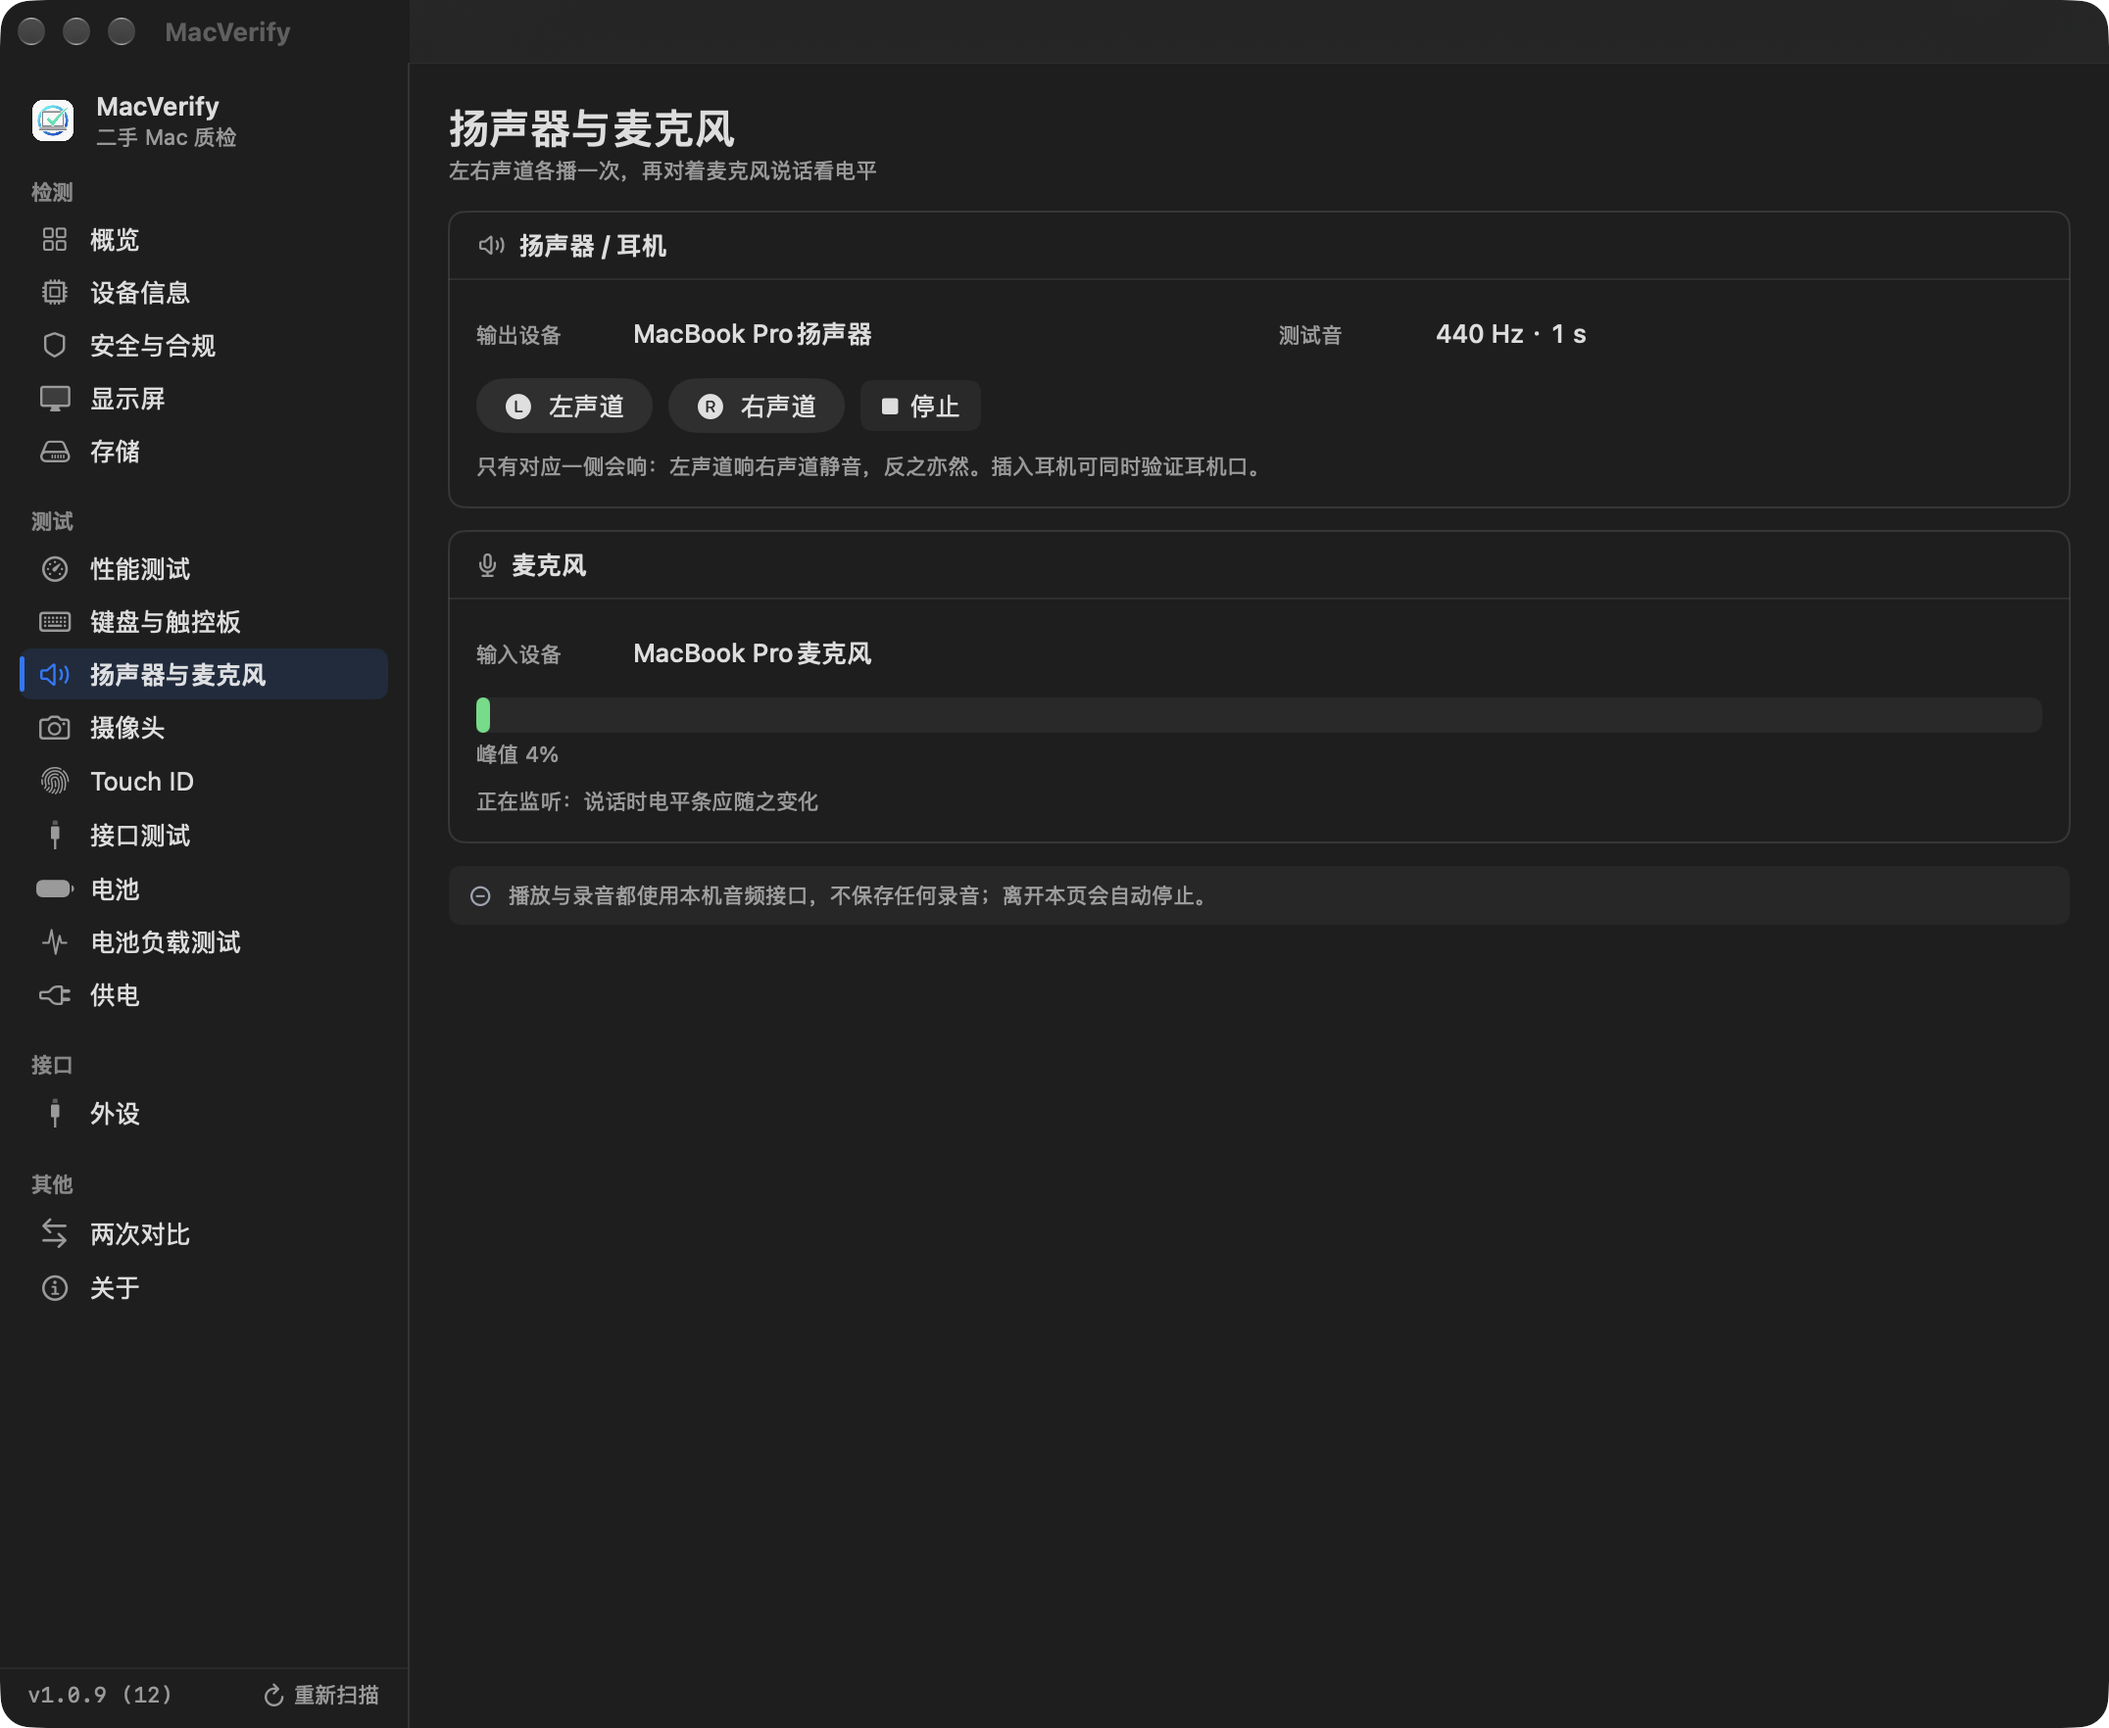
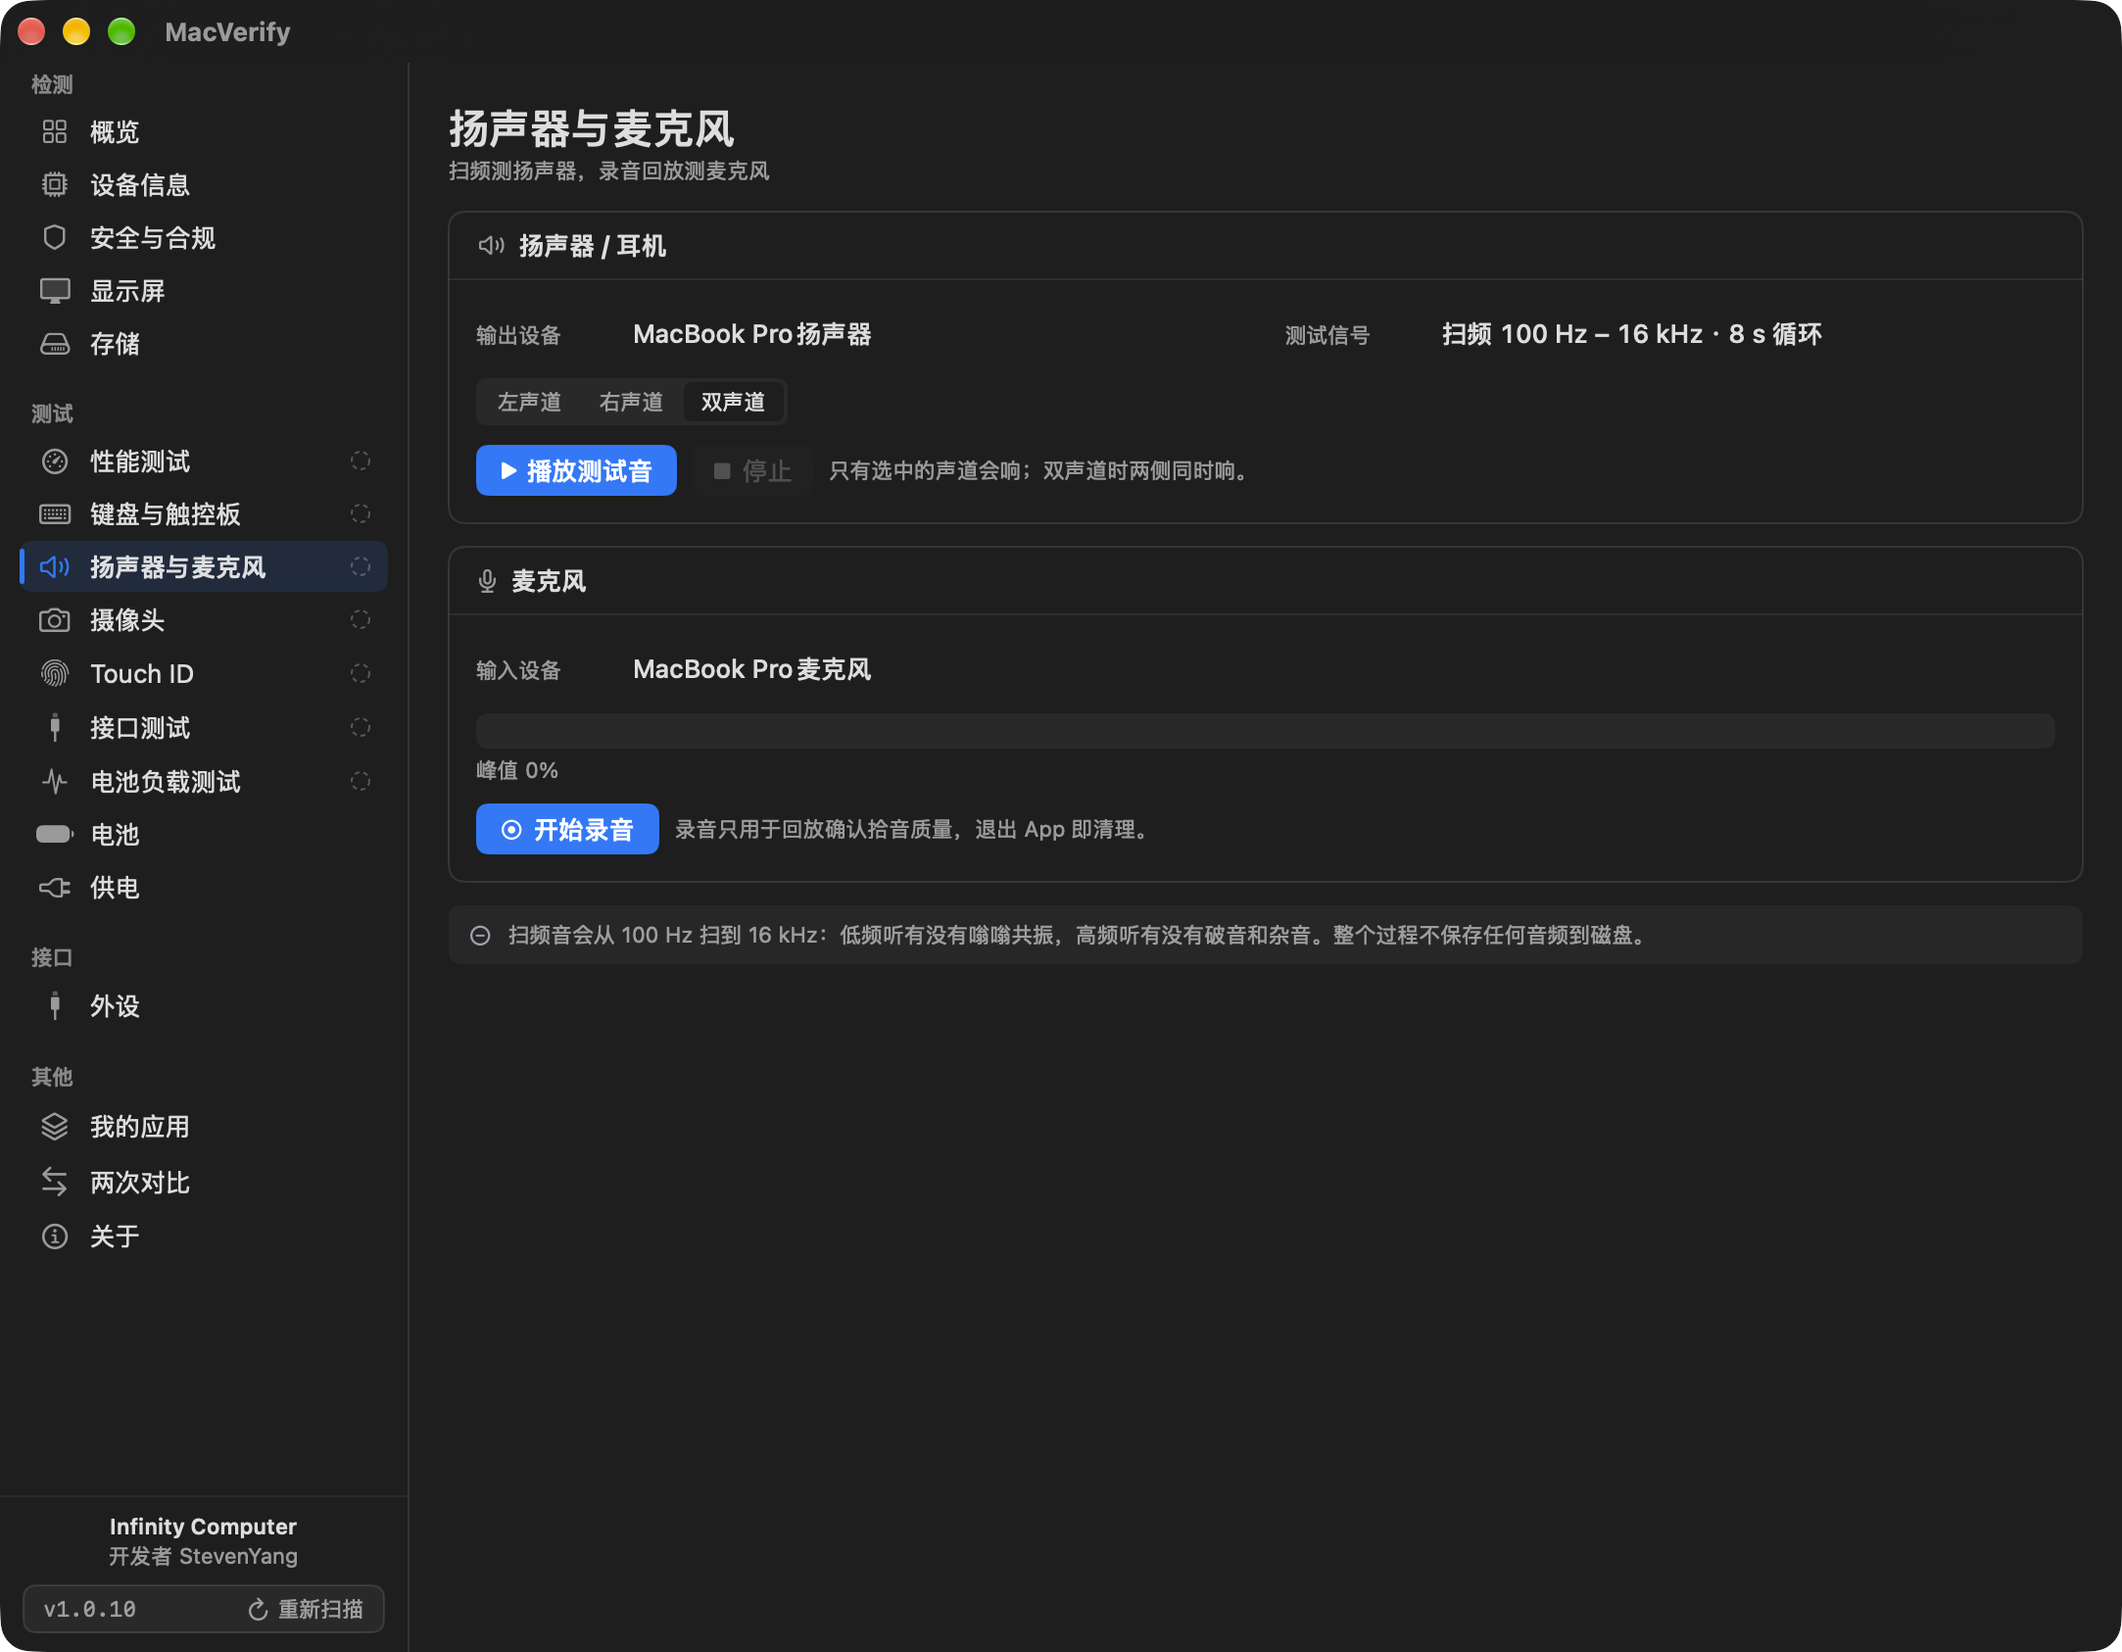
Tidy layout defects found in a page-by-page pass
Reviewed all 18 pages at a fixed 1040x860 viewport and fixed the places
where the layout, not the data, was wrong:

1. Power: the adapter card was stretched to match the charging card, which
   spread its three lines of text down the whole card. Content is now pinned
   to the top, so the extra height sits at the bottom instead of between
   the value and the adapter name.

2. Ports: "Start listening" and "Refresh" floated between two cards with no
   container, unlike every other action on the page. Refresh moved into the
   connected-devices header, and start/stop/clear plus the capture counter
   moved into the log header.

3. Audio: the Stop button sat immediately after the channel segmented
   control and read as a fourth segment. Play and Stop now share one row,
   and Stop is disabled until something is playing.

4. Battery Load Test: the status word ("Ready") was orphaned under the
   duration picker. It is now a badge in the card header, so the running
   state is visible without reading the body.

Also refreshed the audio and ports screenshots in docs.

Verified: 95 unit tests, baseline and localization linters pass; the four
changed pages were re-rendered and the audio/ports pages checked live in the
running app. No version bump, no release.

diff --git a/MacVerify/Views/PowerView.swift b/MacVerify/Views/PowerView.swift
@@ -50,26 +50,31 @@ struct PowerView: View {
                 }
 
                 Card(title: T("适配器", "Adapter"), icon: "powerplug") {
-                    if let watts = battery.adapterWatts {
-                        HStack(alignment: .firstTextBaseline, spacing: 4) {
-                            Text("\(watts)")
-                                .font(Typo.metric)
-                            Text("W").font(Typo.caption).foregroundColor(.secondary)
+                    // 与左边卡片等高时，内容贴顶——否则三行字会被拉开成一大片空隙
+                    VStack(alignment: .leading, spacing: Space.xs) {
+                        if let watts = battery.adapterWatts {
+                            HStack(alignment: .firstTextBaseline, spacing: 4) {
+                                Text("\(watts)")
+                                    .font(Typo.metric)
+                                Text("W").font(Typo.caption).foregroundColor(.secondary)
+                            }
+                            Text(battery.adapterName ?? T("USB-C 电源适配器", "USB-C power adapter"))
+                                .font(Typo.caption)
+                                .foregroundColor(.secondary)
+                            if let manufacturer = battery.adapterManufacturer {
+                                Text(manufacturer).font(Typo.caption).foregroundColor(.secondary)
+                            }
+                        } else {
+                            Text(T("未检测到适配器", "No adapter detected"))
+                                .font(Typo.body)
+                                .foregroundColor(.secondary)
+                            Text(T("使用电池供电时无法读取适配器信息。", "Adapter details are unavailable while running on battery."))
+                                .font(Typo.caption)
+                                .foregroundColor(.secondary)
                         }
-                        Text(battery.adapterName ?? T("USB-C 电源适配器", "USB-C power adapter"))
-                            .font(Typo.caption)
-                            .foregroundColor(.secondary)
-                        if let manufacturer = battery.adapterManufacturer {
-                            Text(manufacturer).font(Typo.caption).foregroundColor(.secondary)
-                        }
-                    } else {
-                        Text(T("未检测到适配器", "No adapter detected"))
-                            .font(Typo.body)
-                            .foregroundColor(.secondary)
-                        Text(T("使用电池供电时无法读取适配器信息。", "Adapter details are unavailable while running on battery."))
-                            .font(Typo.caption)
-                            .foregroundColor(.secondary)
+                        Spacer(minLength: 0)
                     }
+                    .frame(maxHeight: .infinity, alignment: .top)
                 }
                 .frame(width: 300)
             }

diff --git a/MacVerify/Views/PortTestView.swift b/MacVerify/Views/PortTestView.swift
@@ -215,7 +215,12 @@ struct PortTestView: View {
                 )
             )
 
-            Card(title: T("当前连接的设备", "Connected now"), icon: "cable.connector") {
+            Card(title: T("当前连接的设备", "Connected now"), icon: "cable.connector",
+                 trailing: AnyView(
+                    SecondaryButton(title: T("刷新", "Refresh"), icon: "arrow.clockwise") {
+                        monitor.refreshDevices()
+                    }
+                 )) {
                 VStack(alignment: .leading, spacing: 0) {
                     if monitor.devices.isEmpty {
                         Text(T("当前没有检测到 USB / 雷雳 / 外置存储设备。",
@@ -239,21 +244,22 @@ struct PortTestView: View {
                 }
             }
 
-            HStack(spacing: Space.sm) {
-                if monitor.isMonitoring {
-                    SecondaryButton(title: T("停止监听", "Stop"), icon: "stop.fill") { monitor.stop() }
-                    SecondaryButton(title: T("清除记录", "Clear log"), icon: "trash") { monitor.clearEvents() }
-                } else {
-                    PrimaryButton(title: T("开始监听", "Start listening"), icon: "play.fill") { monitor.start() }
-                    SecondaryButton(title: T("刷新", "Refresh"), icon: "arrow.clockwise") { monitor.refreshDevices() }
-                }
-                Spacer(minLength: 0)
-                Text(T("已捕获接入 \(monitor.insertCount) 次", "\(monitor.insertCount) connections captured"))
-                    .font(Typo.caption)
-                    .foregroundColor(.secondary)
-            }
-
-            Card(title: T("插拔记录", "Plug / unplug log"), icon: "list.bullet.rectangle") {
+            Card(title: T("插拔记录", "Plug / unplug log"), icon: "list.bullet.rectangle",
+                 trailing: AnyView(
+                    HStack(spacing: Space.sm) {
+                        Text(T("已捕获 \(monitor.insertCount) 次", "\(monitor.insertCount) captured"))
+                            .font(Typo.caption)
+                            .foregroundColor(.secondary)
+                        if monitor.isMonitoring {
+                            SecondaryButton(title: T("停止监听", "Stop"), icon: "stop.fill") { monitor.stop() }
+                            SecondaryButton(title: T("清除", "Clear"), icon: "trash") { monitor.clearEvents() }
+                        } else {
+                            PrimaryButton(title: T("开始监听", "Start listening"), icon: "play.fill") {
+                                monitor.start()
+                            }
+                        }
+                    }
+                 )) {
                 VStack(alignment: .leading, spacing: 0) {
                     if monitor.events.isEmpty {
                         Text(T("开始监听后，插入或拔出设备会记录在这里。",

diff --git a/MacVerify/Views/AudioTestView.swift b/MacVerify/Views/AudioTestView.swift
@@ -334,15 +334,10 @@ struct AudioTestView: View {
                                                         "Sweep 100 Hz – 16 kHz, 8 s loop"))
                 ], columns: 2, labelWidth: 72)
 
-                HStack(spacing: Space.md) {
-                    SegmentedPicker(options: PlayChannel.allCases,
-                                    title: { $0.title },
-                                    selection: $speaker.channel,
-                                    enabled: speaker.playing == nil)
-                    SecondaryButton(title: T("停止", "Stop"), icon: "stop.fill") {
-                        speaker.stop()
-                    }
-                }
+                SegmentedPicker(options: PlayChannel.allCases,
+                                title: { $0.title },
+                                selection: $speaker.channel,
+                                enabled: speaker.playing == nil)
 
                 HStack(spacing: Space.sm) {
                     PrimaryButton(title: speaker.playing == nil
@@ -351,6 +346,10 @@ struct AudioTestView: View {
                                   icon: "play.fill",
                                   enabled: speaker.playing == nil) {
                         speaker.play()
+                    }
+                    SecondaryButton(title: T("停止", "Stop"), icon: "stop.fill",
+                                    enabled: speaker.playing != nil) {
+                        speaker.stop()
                     }
                     Text(T("只有选中的声道会响；双声道时两侧同时响。",
                            "Only the selected channel sounds; Both plays them together."))

diff --git a/MacVerify/Views/LoadTestView.swift b/MacVerify/Views/LoadTestView.swift
@@ -48,7 +48,10 @@ struct LoadTestView: View {
     }
 
     private var controlCard: some View {
-        Card(title: T("测试设置", "Setup"), icon: "slider.horizontal.3") {
+        Card(title: T("测试设置", "Setup"), icon: "slider.horizontal.3",
+             trailing: AnyView(
+                StatusBadge(text: engine.status, level: engine.isRunning ? .warning : .neutral)
+             )) {
             VStack(alignment: .leading, spacing: Space.sm) {
                 HStack(spacing: Space.sm) {
                     SegmentedPicker(options: [180, 600, 1200],
@@ -69,7 +72,6 @@ struct LoadTestView: View {
                 if engine.isRunning {
                     ProgressView(value: engine.progress).progressViewStyle(.linear)
                 }
-                Text(engine.status).font(Typo.caption).foregroundColor(.secondary)
             }
         }
         .onDisappear {
